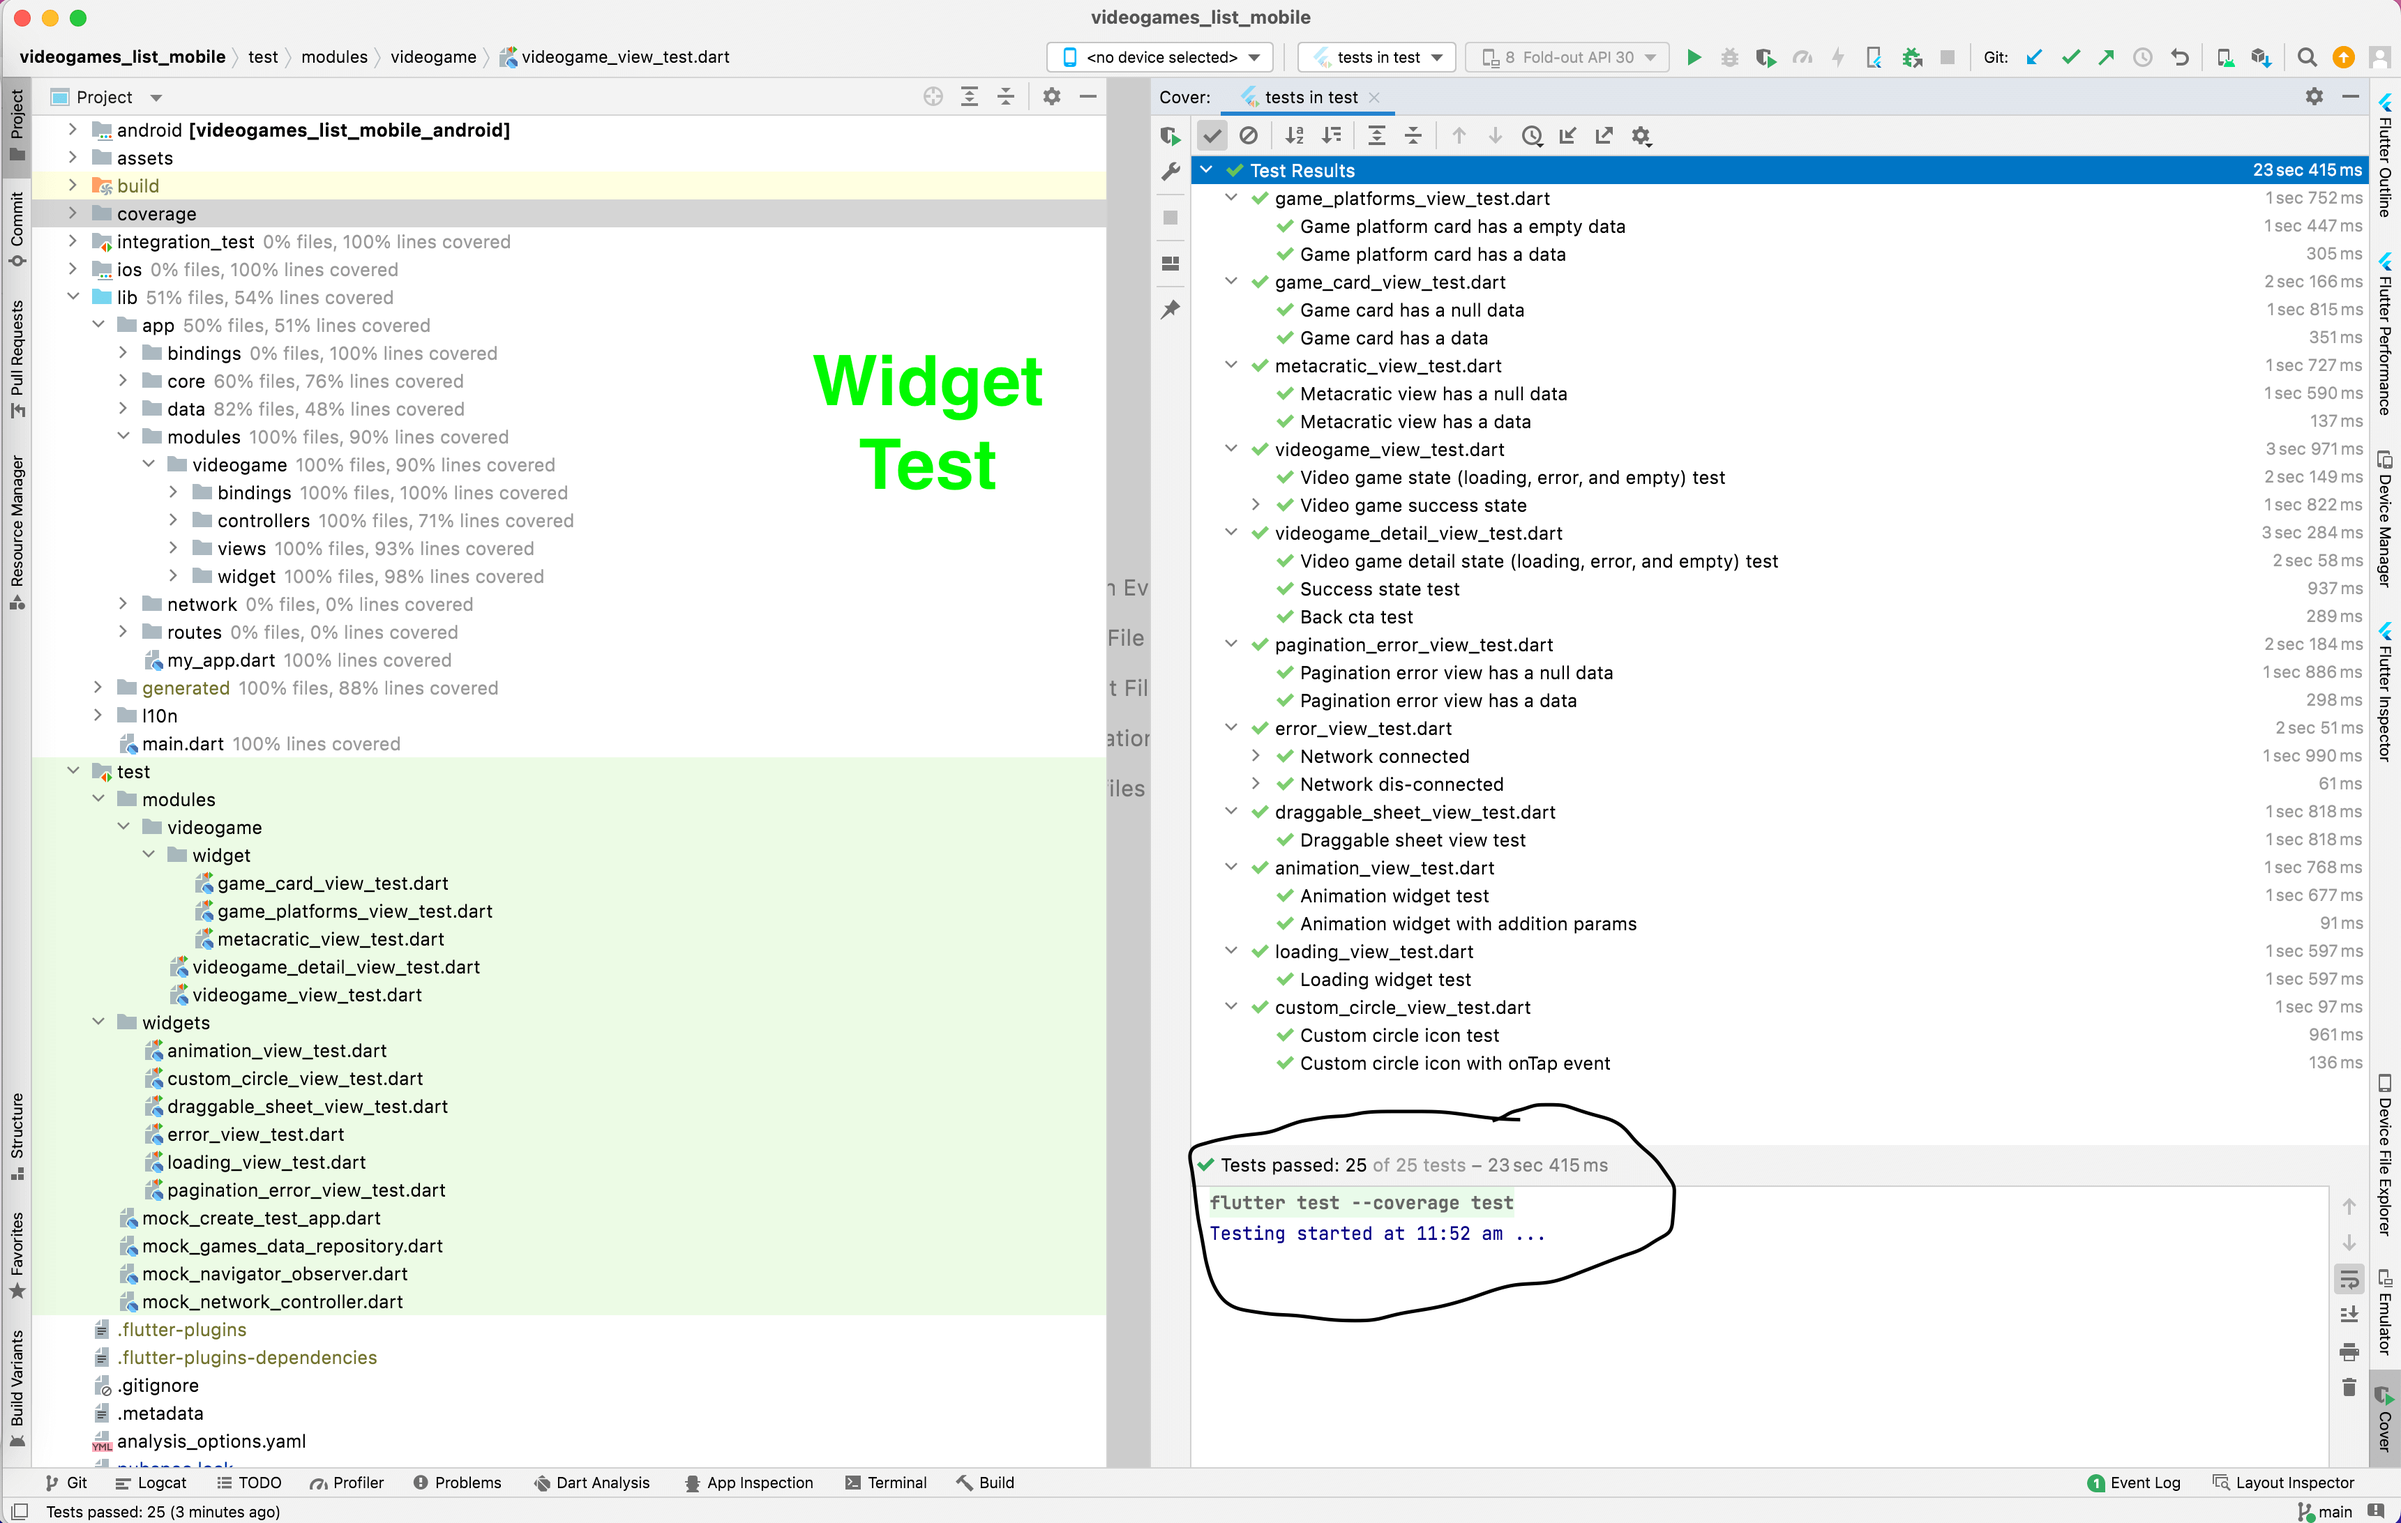
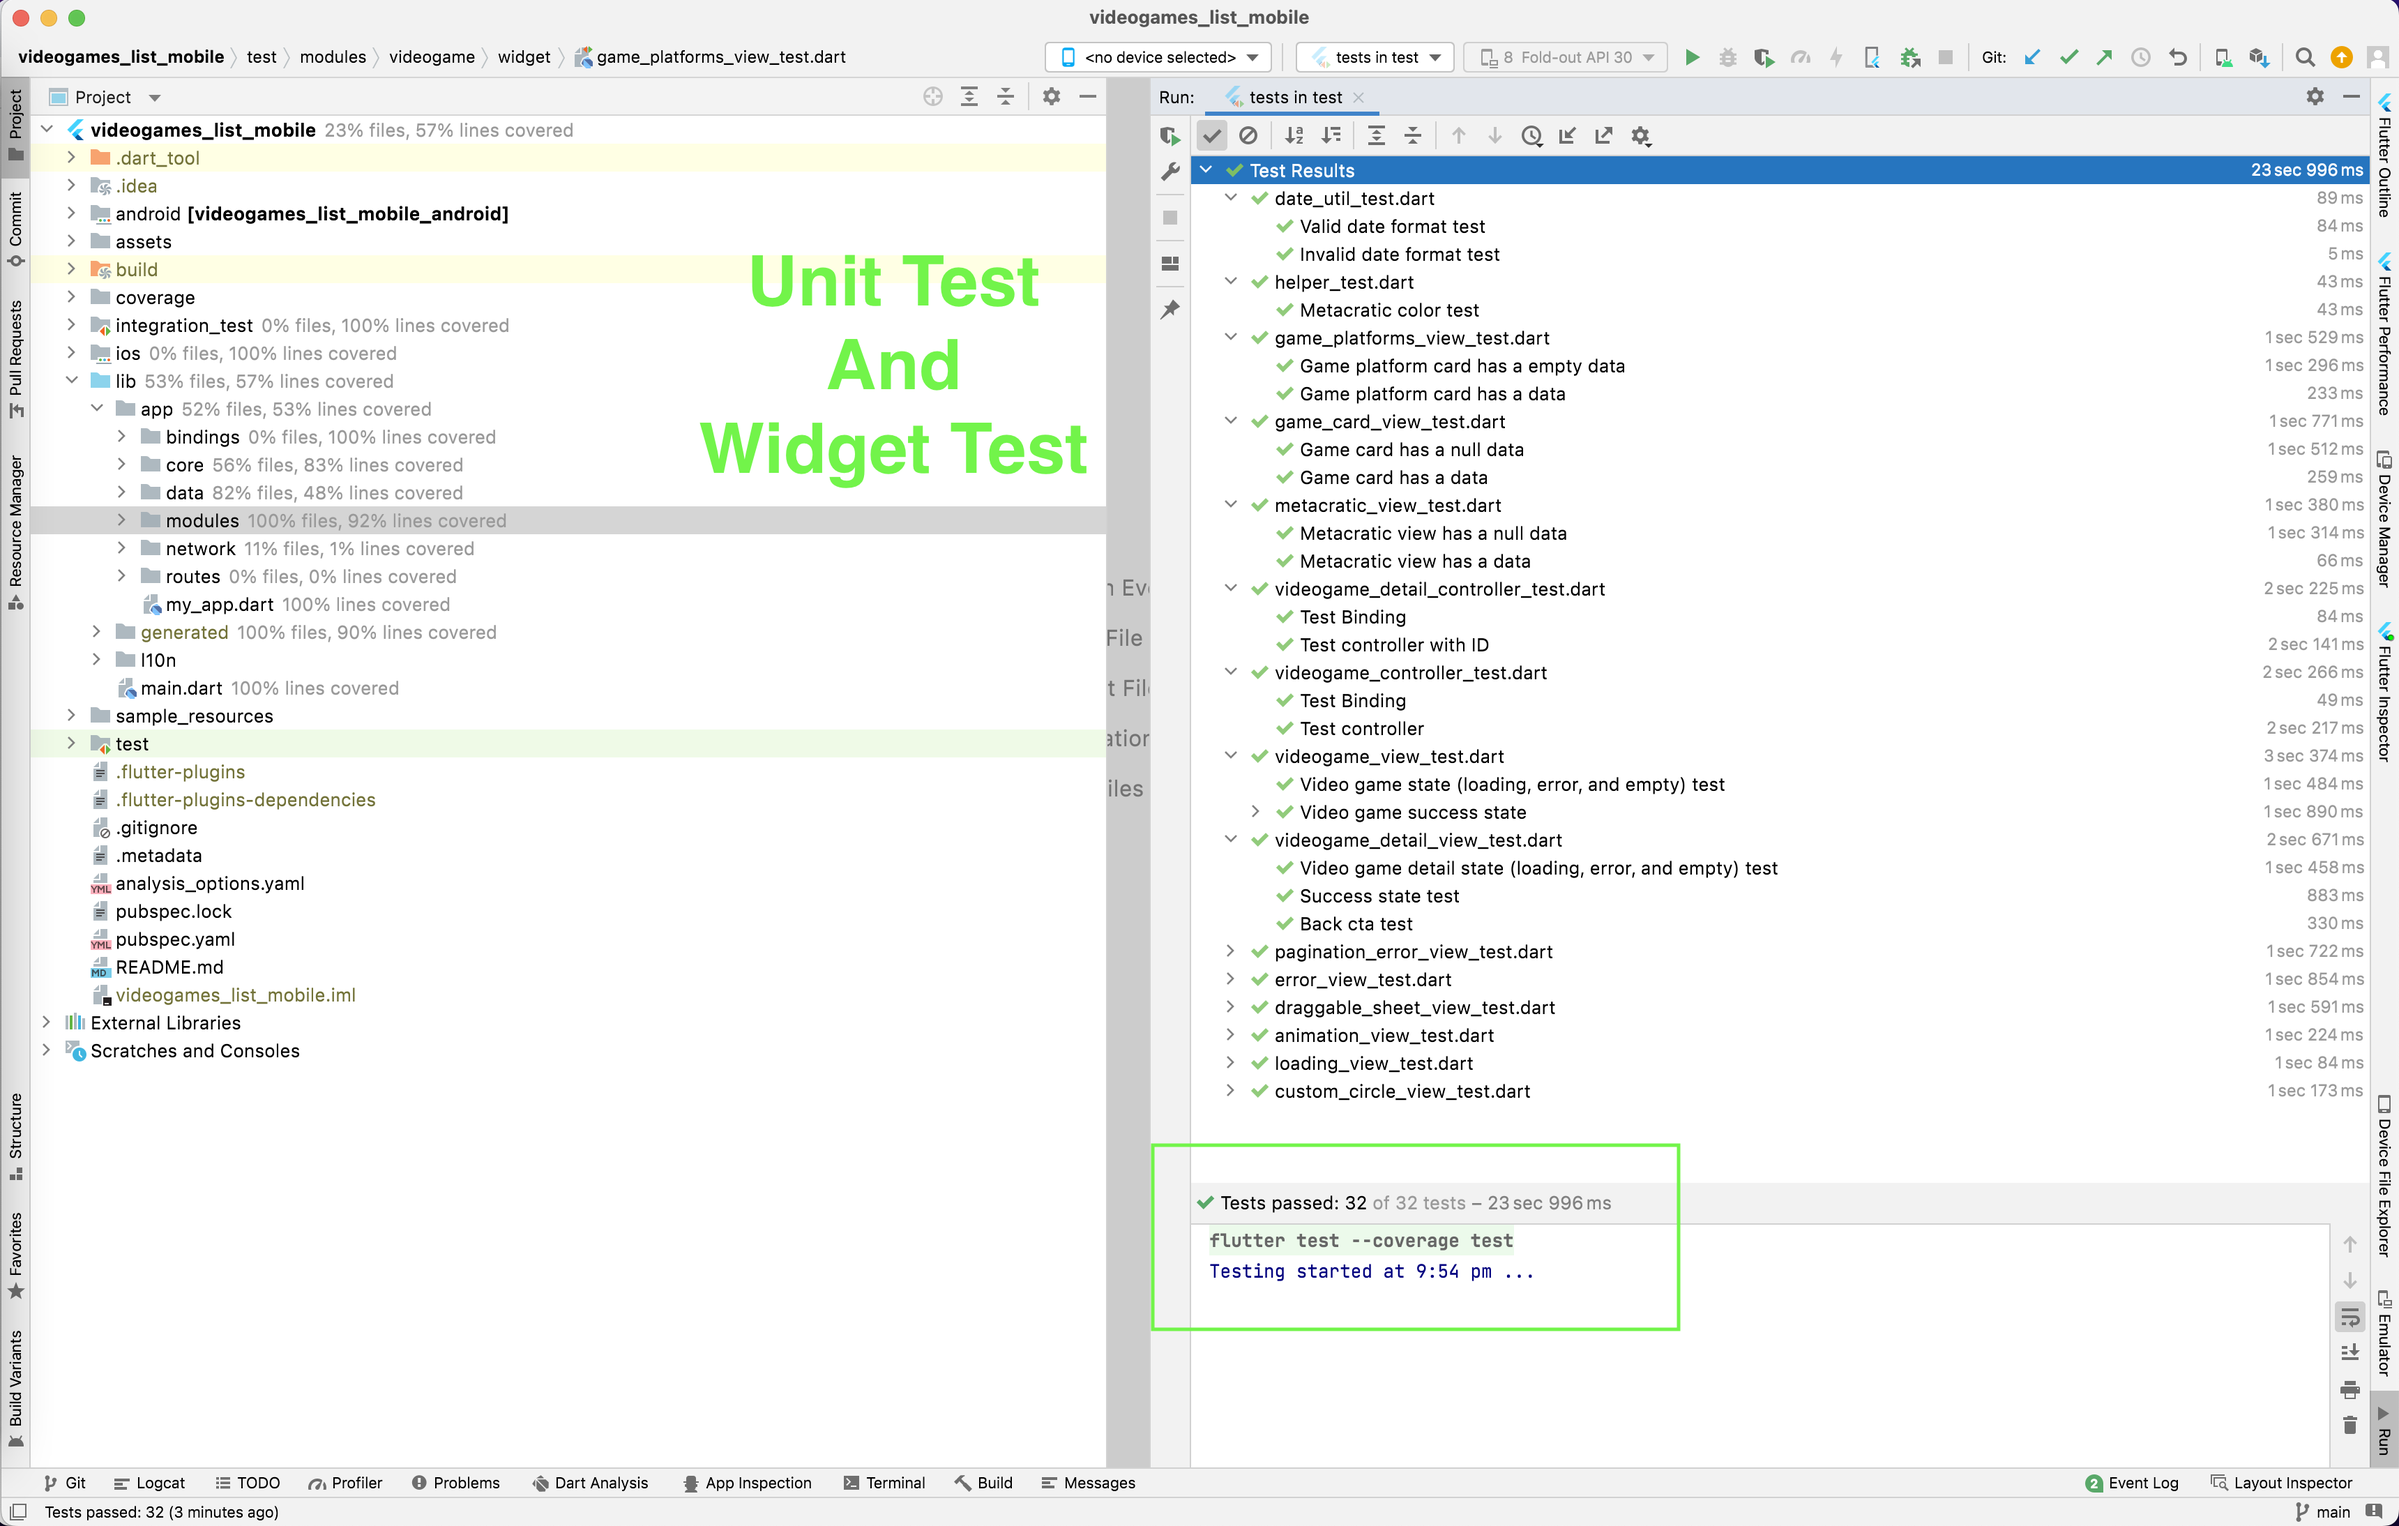
Added unit test cases

diff --git a/test/modules/videogame/controller/videogame_controller_test.dart b/test/modules/videogame/controller/videogame_controller_test.dart
@@ -1,0 +1,53 @@
+
+import 'package:flutter_test/flutter_test.dart';
+import 'package:get/get.dart';
+import 'package:videogames_list_mobile/app/data/repository/games_data_repository.dart';
+import 'package:videogames_list_mobile/app/modules/videogame/controllers/videogame_controller.dart';
+import 'package:videogames_list_mobile/app/network/network_controller.dart';
+
+import '../../../mock_games_data_repository.dart';
+import '../../../mock_network_controller.dart';
+
+void main() {
+  BindingsBuilder bindingsBuilder = BindingsBuilder<dynamic>(() {
+    Get.lazyPut<INetworkInfoProvider>(() => MockNetworkController());
+
+    Get.lazyPut<IGamesDataRepository>(() => MockGamesDataRepository());
+    Get.lazyPut(() => VideoGameController());
+  });
+
+  test('Test Binding', () {
+    expect(Get.isPrepared<VideoGameController>(), false);
+    bindingsBuilder.builder();
+    expect(Get.isPrepared<VideoGameController>(), true);
+  });
+
+  test('Test controller', () async {
+    bindingsBuilder.builder();
+    VideoGameController controller = Get.find<VideoGameController>();
+
+    expect(controller.initialized, true);
+    expect(controller.status.isLoading, true);
+    expect(controller.pageNumber, 1);
+
+    await Future<dynamic>.delayed(const Duration(seconds: 1));
+
+    if (controller.status.isError) {
+      expect(controller.state, null);
+    }
+
+    if (controller.status.isSuccess) {
+      expect(controller.state!.isEmpty, false);
+
+      expect(controller.pageNumber, 2);
+
+      await controller.fetchPlayStationGames();
+
+      await Future<dynamic>.delayed(const Duration(seconds: 1));
+
+      if (!controller.isPaginationLoading.value && !controller.isPaginationError.value && !controller.isPaginationLastPage) {
+        expect(controller.pageNumber, 3);
+      }
+    }
+  });
+}

diff --git a/test/modules/videogame/controller/videogame_detail_controller_test.dart b/test/modules/videogame/controller/videogame_detail_controller_test.dart
@@ -1,0 +1,51 @@
+import 'package:flutter_test/flutter_test.dart';
+import 'package:get/get.dart';
+import 'package:videogames_list_mobile/app/data/repository/games_data_repository.dart';
+import 'package:videogames_list_mobile/app/modules/videogame/controllers/videogame_detail_controller.dart';
+import 'package:videogames_list_mobile/app/network/network_controller.dart';
+
+import '../../../mock_games_data_repository.dart';
+import '../../../mock_network_controller.dart';
+
+void main() {
+  BindingsBuilder bindingsBuilder = BindingsBuilder<dynamic>(() {
+    Get.lazyPut<INetworkInfoProvider>(() => MockNetworkController());
+
+    Get.lazyPut<IGamesDataRepository>(() => MockGamesDataRepository());
+    Get.lazyPut(() => VideoGameDetailController());
+  });
+
+  test('Test Binding', () {
+    expect(Get.isPrepared<VideoGameDetailController>(), false);
+    bindingsBuilder.builder();
+    expect(Get.isPrepared<VideoGameDetailController>(), true);
+  });
+
+  test('Test controller with ID', () async {
+    Get.parameters = <String, String>{
+      VideoGameDetailController.paramGameID: "1234"
+    };
+    bindingsBuilder.builder();
+    VideoGameDetailController controller =
+        Get.find<VideoGameDetailController>();
+
+    expect(controller.initialized, true);
+    expect(controller.status.isLoading, true);
+
+    await Future<dynamic>.delayed(const Duration(seconds: 1));
+
+    if (controller.status.isError) {
+      expect(controller.state, null);
+    }
+
+    if (controller.status.isSuccess) {
+      expect(controller.state, isNotNull);
+
+      await controller.fetchPlayStationGameDetail();
+
+      await Future<dynamic>.delayed(const Duration(seconds: 1));
+
+      expect(controller.getGenres(), isNotEmpty);
+    }
+  });
+}

diff --git a/test/utils/date_util_test.dart b/test/utils/date_util_test.dart
@@ -1,0 +1,30 @@
+
+import 'package:flutter_test/flutter_test.dart';
+import 'package:intl/intl.dart';
+import 'package:videogames_list_mobile/app/core/utils/date_util.dart';
+
+void main() {
+
+  test('Valid date format test', () {
+    String date = DateUtil.getDefaultFormattedDate(null);
+    expect(date, DateFormat.yMMMMd().format(DateTime.now()));
+
+    date = DateUtil.getDefaultFormattedDate('');
+    expect(date, DateFormat.yMMMMd().format(DateTime.now()));
+
+    date = DateUtil.getDefaultFormattedDate("2022-10-09");
+    expect(date, 'October 9, 2022');
+  });
+
+  test('Invalid date format test', () {
+    String date = DateUtil.getDefaultFormattedDate("2022/10/09");
+    expect(date, '2022/10/09');
+
+    date = DateUtil.getDefaultFormattedDate("09-10-2022");
+    expect(date, '09-10-2022');
+
+    date = DateUtil.getDefaultFormattedDate("12-21-2022");
+    expect(date, '12-21-2022');
+  });
+
+}

diff --git a/test/utils/helper_test.dart b/test/utils/helper_test.dart
@@ -1,0 +1,27 @@
+
+import 'package:flutter/material.dart';
+import 'package:flutter_test/flutter_test.dart';
+import 'package:videogames_list_mobile/app/core/utils/helper.dart';
+
+void main() {
+
+  test('Metacratic color test', () {
+    Color color = Helper.metacriticScoreColor(0);
+    expect(color, Colors.red);
+
+    color = Helper.metacriticScoreColor(49);
+    expect(color, Colors.red);
+
+    color = Helper.metacriticScoreColor(50);
+    expect(color, Colors.amberAccent);
+
+    color = Helper.metacriticScoreColor(74);
+    expect(color, Colors.amberAccent);
+
+    color = Helper.metacriticScoreColor(75);
+    expect(color, Colors.lightGreenAccent);
+
+    color = Helper.metacriticScoreColor(101);
+    expect(color, Colors.lightGreenAccent);
+  });
+}

diff --git a/lib/app/core/utils/date_util.dart b/lib/app/core/utils/date_util.dart
@@ -5,7 +5,11 @@ class DateUtil {
   DateUtil._();
 
   static String getDefaultFormattedDate(String? date) {
-    return DateFormat.yMMMMd()
-        .format(date != null ? DateTime.parse(date) : DateTime.now());
+    try {
+      return DateFormat.yMMMMd().format(
+          (date?.isEmpty ?? true) ? DateTime.now() : DateTime.parse(date!));
+    } catch (_) {
+      return date ?? '';
+    }
   }
 }
